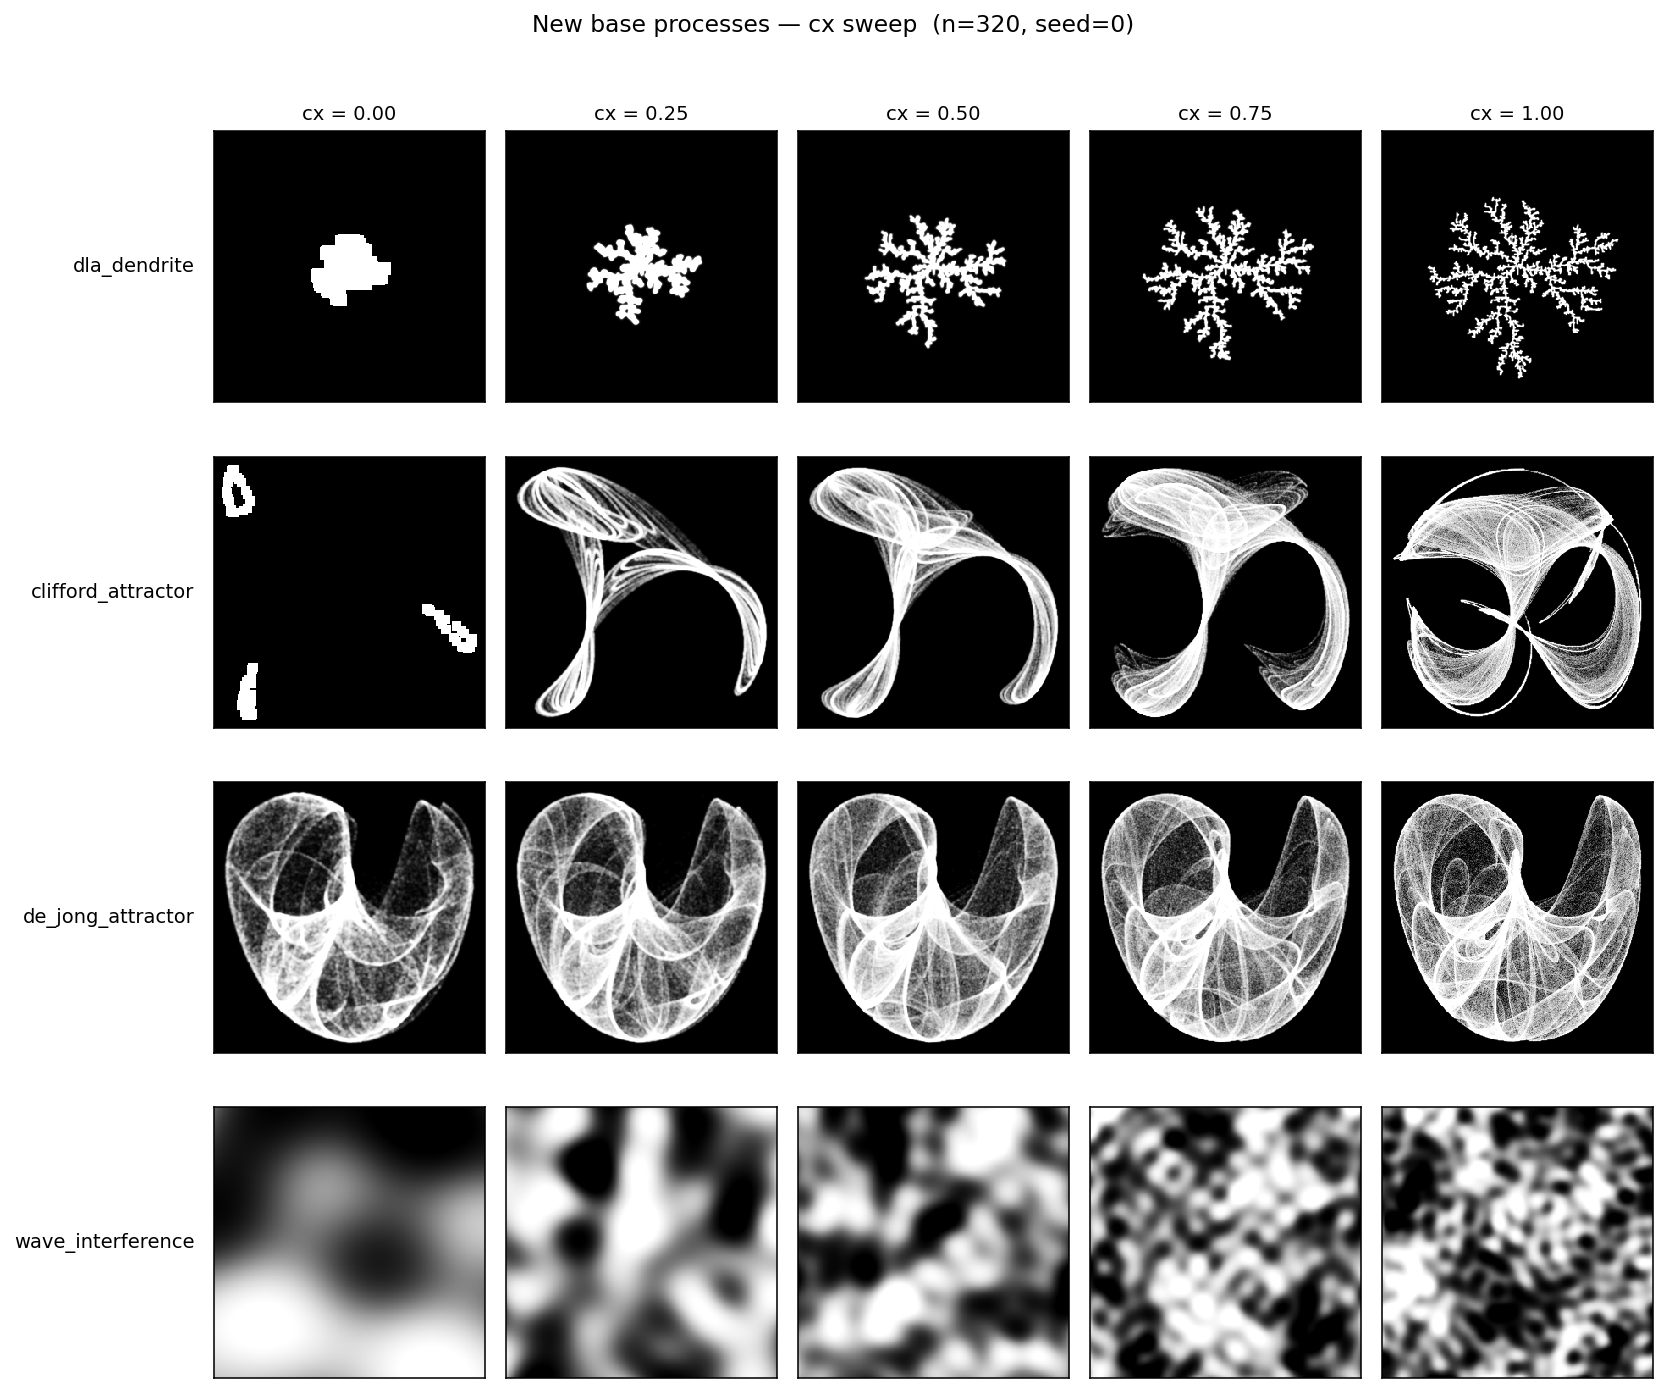
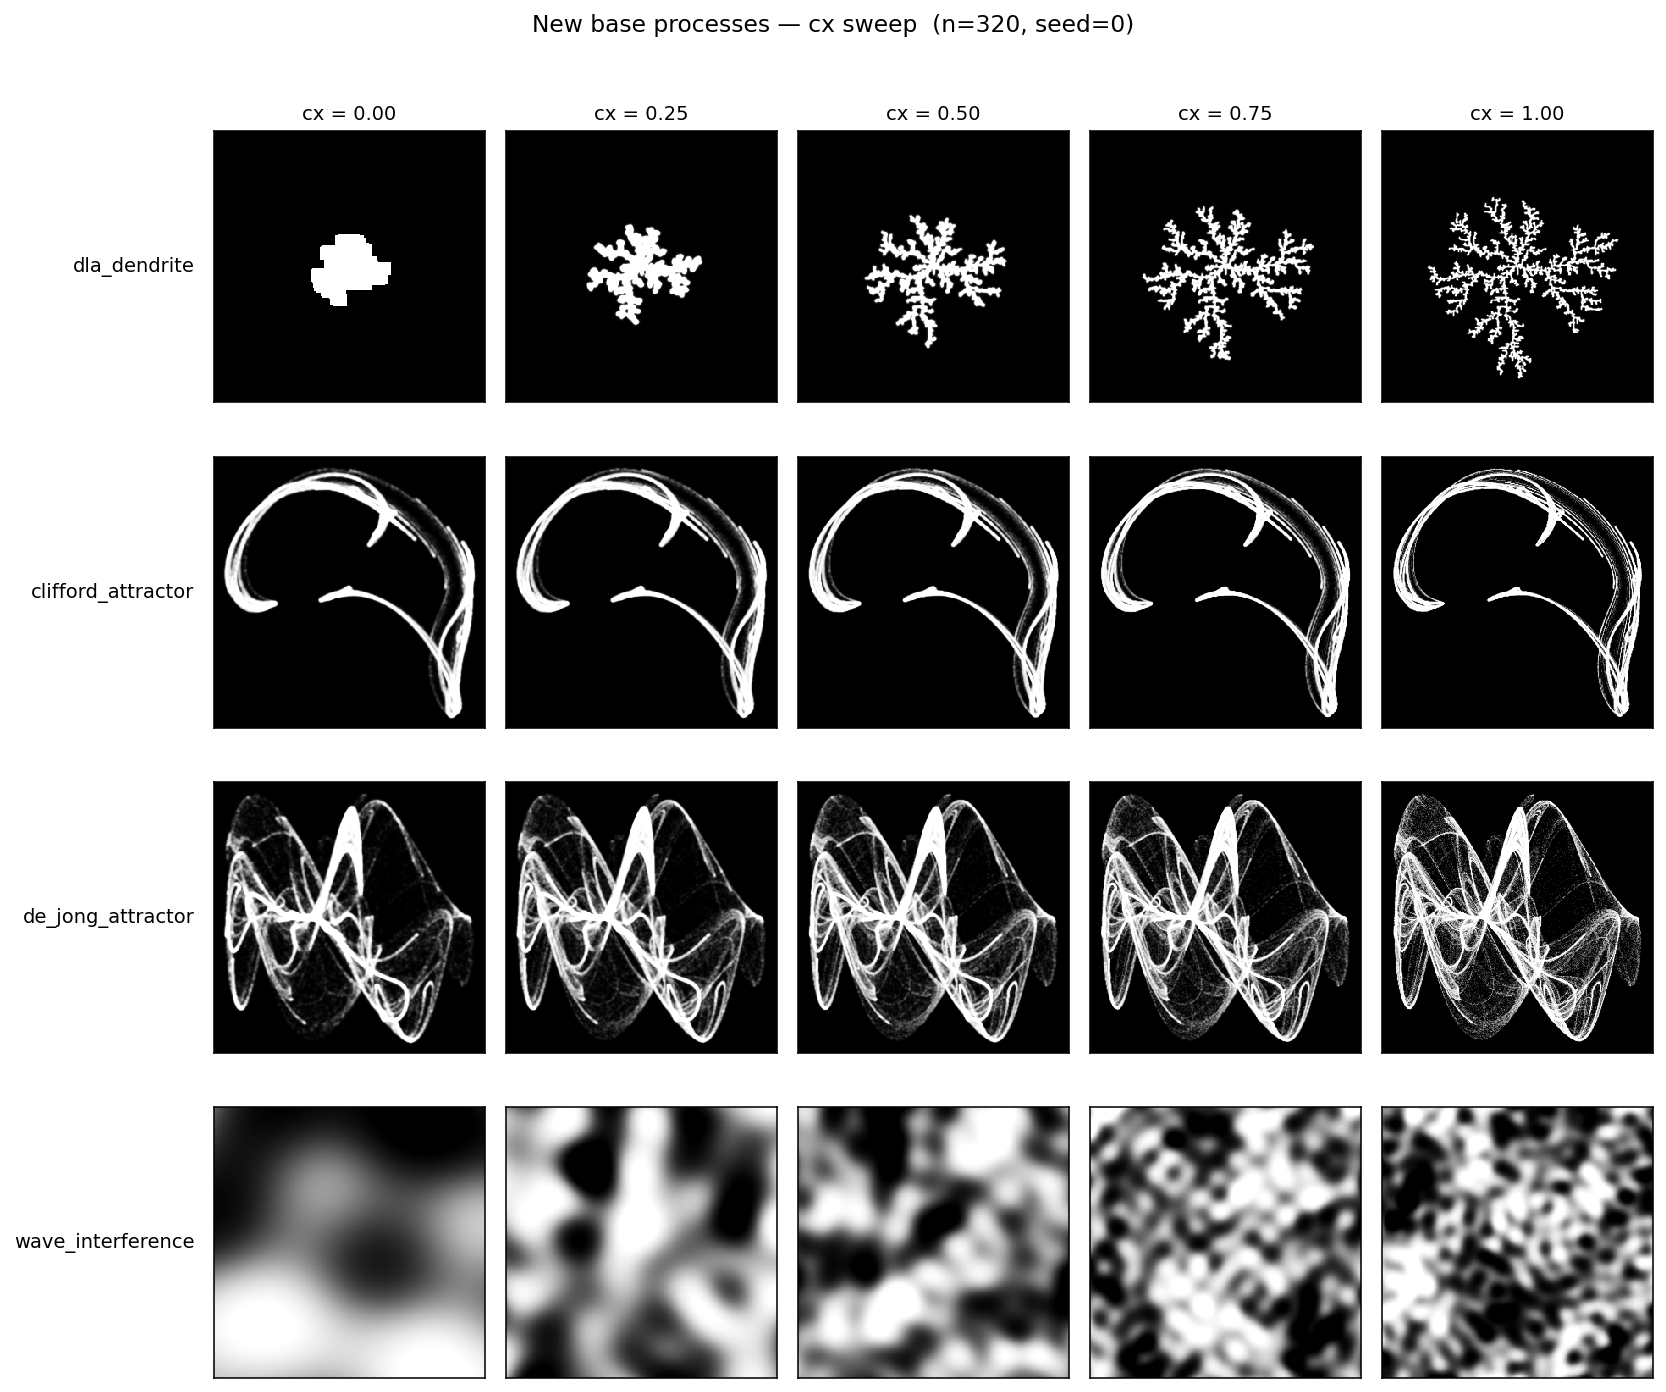
Attractors: wider seed variability + wave_interference crispness knob
Attractors:
  Seeds now sample (a, b, c, d) from a wide parameter cube
  ([-2.2, 2.2]^4 for Clifford, [-2.7, 2.7]^4 for de Jong) instead of
  jittering a single base. A two-stage quality filter (fast 8k-iter probe,
  bbox + histogram-occupancy check) rejects degenerate orbits — point
  attractors, short cycles, or sparse cycles that pass a naive bbox check
  but visit too few cells. Up to 40 retries before falling back; in practice
  most attempts succeed on the first try.
  Result: seeds now give visually distinct strange attractors (different
  fern / wisp / branched / vortical shapes) rather than near-identical
  variations on a fixed parameter neighborhood.

wave_interference:
  New `crispness` parameter in [0, 1]. 0 = original smooth cos-sum;
  1 = near-binary level-curves via tanh saturation (post-sum field
  pushed through tanh(gain * (field - 0.5)) with gain = 1 + 18 * crispness).
  Lets the interference fringes read as crisp lines or moire wave-fronts
  rather than soft gradients.

Figures 30 (cx sweep, refreshed), 31 (seed sweep, dramatically wider
attractor variation), 32 (crispness sweep across cx).

diff --git a/benchmarks/attractors_crispness_refresh.py b/benchmarks/attractors_crispness_refresh.py
@@ -1,0 +1,118 @@
+"""
+Re-render after the post-feedback tweaks:
+  - Attractor seed sampling widened (now spans the (a,b,c,d) parameter
+    geometry, with a quality filter that rejects degenerate orbits).
+  - wave_interference grew a `crispness` knob.
+
+Outputs:
+  benchmarks/figures/30_new_bases_cx_sweep.png        (regenerated)
+  benchmarks/figures/31_new_bases_seed_sweep.png      (regenerated, now
+                                                       with wider attractor
+                                                       seed variability)
+  benchmarks/figures/32_wave_crispness_demo.png       crispness sweep at
+                                                       cx=0.3, 0.6, 0.9
+"""
+from __future__ import annotations
+import sys
+import time
+from pathlib import Path
+import matplotlib
+matplotlib.use("Agg")
+import matplotlib.pyplot as plt
+
+ROOT = Path(__file__).resolve().parents[1]
+sys.path.insert(0, str(ROOT))
+import mfractal as mf
+
+N = 320
+CXS = [0.0, 0.25, 0.5, 0.75, 1.0]
+SEEDS = [0, 1, 2, 3, 4]
+FAMS = ["dla_dendrite", "clifford_attractor", "de_jong_attractor",
+        "wave_interference"]
+
+
+def cx_sweep():
+    fig, axes = plt.subplots(len(FAMS), len(CXS),
+                             figsize=(2.4 * len(CXS), 2.5 * len(FAMS)),
+                             squeeze=False)
+    for ri, fam in enumerate(FAMS):
+        for ci, cx in enumerate(CXS):
+            img = mf.generate(fam, n=N, complexity=cx, seed=0)
+            disp = mf.punch(img)
+            ax = axes[ri][ci]
+            ax.imshow(disp, cmap="gray", vmin=0, vmax=1, interpolation="nearest")
+            ax.set_xticks([]); ax.set_yticks([])
+            if ri == 0:
+                ax.set_title(f"cx = {cx:.2f}", fontsize=10)
+            if ci == 0:
+                ax.set_ylabel(fam, fontsize=10, rotation=0,
+                              ha="right", va="center", labelpad=10)
+    fig.suptitle(f"New base processes — cx sweep  (n={N}, seed=0)",
+                 fontsize=12, y=1.005)
+    fig.tight_layout()
+    out = ROOT / "benchmarks" / "figures" / "30_new_bases_cx_sweep.png"
+    fig.savefig(out, dpi=140, bbox_inches="tight"); plt.close(fig)
+    print(f"Wrote {out.relative_to(ROOT)}")
+
+
+def seed_sweep():
+    fig, axes = plt.subplots(len(FAMS), len(SEEDS),
+                             figsize=(2.4 * len(SEEDS), 2.5 * len(FAMS)),
+                             squeeze=False)
+    for ri, fam in enumerate(FAMS):
+        for ci, s in enumerate(SEEDS):
+            img = mf.generate(fam, n=N, complexity=0.5, seed=s)
+            disp = mf.punch(img)
+            ax = axes[ri][ci]
+            ax.imshow(disp, cmap="gray", vmin=0, vmax=1, interpolation="nearest")
+            ax.set_xticks([]); ax.set_yticks([])
+            if ri == 0:
+                ax.set_title(f"seed = {s}", fontsize=10)
+            if ci == 0:
+                ax.set_ylabel(fam, fontsize=10, rotation=0,
+                              ha="right", va="center", labelpad=10)
+    fig.suptitle("New base processes — seed sweep at cx=0.5  "
+                 "(attractors now span the full param geometry)",
+                 fontsize=12, y=1.005)
+    fig.tight_layout()
+    out = ROOT / "benchmarks" / "figures" / "31_new_bases_seed_sweep.png"
+    fig.savefig(out, dpi=140, bbox_inches="tight"); plt.close(fig)
+    print(f"Wrote {out.relative_to(ROOT)}")
+
+
+def crispness_demo():
+    """Three rows: cx=0.3, 0.6, 0.9; six columns: crispness 0..1."""
+    cxs = [0.3, 0.6, 0.9]
+    crispnesses = [0.0, 0.2, 0.4, 0.6, 0.8, 1.0]
+    fig, axes = plt.subplots(len(cxs), len(crispnesses),
+                             figsize=(2.4 * len(crispnesses), 2.5 * len(cxs)),
+                             squeeze=False)
+    for ri, cx in enumerate(cxs):
+        for ci, cr in enumerate(crispnesses):
+            img = mf.wave_interference(n=N, complexity=cx, seed=0, crispness=cr)
+            disp = mf.punch(img)
+            ax = axes[ri][ci]
+            ax.imshow(disp, cmap="gray", vmin=0, vmax=1, interpolation="nearest")
+            ax.set_xticks([]); ax.set_yticks([])
+            if ri == 0:
+                ax.set_title(f"crispness = {cr:.1f}", fontsize=10)
+            if ci == 0:
+                ax.set_ylabel(f"cx = {cx:.1f}", fontsize=10, rotation=0,
+                              ha="right", va="center", labelpad=10)
+    fig.suptitle("wave_interference — crispness knob "
+                 "(tanh saturation on the level-curves)",
+                 fontsize=12, y=1.005)
+    fig.tight_layout()
+    out = ROOT / "benchmarks" / "figures" / "32_wave_crispness_demo.png"
+    fig.savefig(out, dpi=140, bbox_inches="tight"); plt.close(fig)
+    print(f"Wrote {out.relative_to(ROOT)}")
+
+
+if __name__ == "__main__":
+    t0 = time.time()
+    cx_sweep()
+    print(f"cx_sweep total: {time.time()-t0:.0f}s")
+    t0 = time.time()
+    seed_sweep()
+    print(f"seed_sweep total: {time.time()-t0:.0f}s")
+    crispness_demo()

diff --git a/mfractal/attractors.py b/mfractal/attractors.py
@@ -79,33 +79,66 @@ def _orbit_to_image(xs, ys, n, smooth=0.7):
     return _normalize01(H)
 
 
+def _orbit_quality(xs, ys, min_bbox=0.6, min_occupancy=0.04, probe_bins=96):
+    """Returns True if the orbit is a non-trivial strange attractor:
+    - finite values
+    - bounding box at least min_bbox in each axis
+    - histogram occupancy (fraction of probe bins visited) at least
+      min_occupancy. This catches short cycles that pass the bbox check
+      but only visit a handful of cells.
+    """
+    if not (np.isfinite(xs).all() and np.isfinite(ys).all()):
+        return False
+    bx = float(xs.max() - xs.min())
+    by = float(ys.max() - ys.min())
+    if bx < min_bbox or by < min_bbox:
+        return False
+    H, _, _ = np.histogram2d(ys, xs, bins=probe_bins)
+    occupancy = float((H > 0).mean())
+    return occupancy >= min_occupancy
+
+
+def _sample_attractor(iterate_fn, n_iter, rng, low=-2.5, high=2.5, tries=40):
+    """Sample (a,b,c,d) from a wide range; retry if the orbit isn't a
+    non-trivial strange attractor. Returns (xs, ys, params).
+
+    Each retry uses a *short* probe iteration to cheaply discard degenerate
+    parameter sets; only the accepted set is iterated for the full n_iter.
+    """
+    probe_iters = 8000
+    for _ in range(tries):
+        params = rng.uniform(low, high, size=4)
+        xs, ys = iterate_fn(*params, n_iter=probe_iters)
+        xs = xs[400:]; ys = ys[400:]
+        if _orbit_quality(xs, ys):
+            # accepted — run the full iteration
+            xs, ys = iterate_fn(*params, n_iter=n_iter)
+            return xs[400:], ys[400:], params
+    # fallback: full iteration on the last attempt so we never return nothing
+    xs, ys = iterate_fn(*params, n_iter=n_iter)
+    return xs[400:], ys[400:], params
+
+
 def clifford_attractor(n=384, seed=None, complexity=0.5):
-    """Clifford attractor density. cx routes iteration count + parameter
-    perturbation; seed picks the parameter neighborhood."""
+    """Clifford attractor density. seed picks (a,b,c,d) from the full
+    [-2.5, 2.5]^4 parameter cube (with rejection of degenerate orbits) so
+    different seeds give visually distinct attractors. cx routes iteration
+    count only."""
     cx = float(np.clip(complexity, 0.0, 1.0))
     rng = default_rng(seed)
     n_iter = int(150_000 + 850_000 * cx)
-    # base params known to give rich orbits; perturb mildly with seed and cx
-    base = np.array([-1.4, 1.6, 1.0, 0.7])
-    jitter = 0.35 * (rng.random(4) - 0.5)
-    perturb = 0.15 * cx * rng.standard_normal(4)
-    a, b, c, d = base + jitter + perturb
-    xs, ys = _iterate_clifford(a, b, c, d, n_iter)
-    # discard transient
-    xs = xs[200:]; ys = ys[200:]
+    xs, ys, _ = _sample_attractor(_iterate_clifford, n_iter, rng,
+                                   low=-2.2, high=2.2)
     return _orbit_to_image(xs, ys, n, smooth=max(0.4, 1.2 - 0.8 * cx))
 
 
 def de_jong_attractor(n=384, seed=None, complexity=0.5):
-    """de Jong attractor density. cx routes iteration count + parameter
-    perturbation; seed picks the parameter neighborhood."""
+    """de Jong attractor density. seed picks (a,b,c,d) from a wide
+    parameter range so different seeds give visually distinct attractors.
+    cx routes iteration count only."""
     cx = float(np.clip(complexity, 0.0, 1.0))
     rng = default_rng(seed)
     n_iter = int(150_000 + 850_000 * cx)
-    base = np.array([1.4, -2.3, 2.4, -2.1])
-    jitter = 0.30 * (rng.random(4) - 0.5)
-    perturb = 0.15 * cx * rng.standard_normal(4)
-    a, b, c, d = base + jitter + perturb
-    xs, ys = _iterate_de_jong(a, b, c, d, n_iter)
-    xs = xs[200:]; ys = ys[200:]
+    xs, ys, _ = _sample_attractor(_iterate_de_jong, n_iter, rng,
+                                   low=-2.7, high=2.7)
     return _orbit_to_image(xs, ys, n, smooth=max(0.4, 1.2 - 0.8 * cx))

diff --git a/mfractal/interference.py b/mfractal/interference.py
@@ -28,15 +28,24 @@ __all__ = ["wave_interference", "INTERFERENCE_FAMILIES"]
 INTERFERENCE_FAMILIES = ("wave_interference",)
 
 
-def wave_interference(n=384, seed=None, complexity=0.5):
+def wave_interference(n=384, seed=None, complexity=0.5, crispness=0.0):
     """Sum of random plane waves: field(x,y) = sum_i cos(k_i (cos theta_i x +
     sin theta_i y) + phi_i). Normalized to [0, 1].
 
-    complexity in [0,1] routes:
-      - wave count   N = 8 ... 64
-      - frequency    k drawn uniformly in [k_lo, k_hi] with k_hi growing in cx
+    Parameters
+    ----------
+    complexity : float in [0, 1]
+        routes wave count (N = 8..64) and frequency range
+        ([2..12] -> [8..92]).
+    crispness : float in [0, 1]
+        post-process contrast push toward binary level-curves. 0 = smooth
+        sums-of-cosines (default; original behavior); 1 = near-binary
+        wave-front nodes (tanh saturation at high gain). Useful when you
+        want the interference fringes to read as crisp lines rather than
+        soft gradients.
     """
     cx = float(np.clip(complexity, 0.0, 1.0))
+    cr = float(np.clip(crispness, 0.0, 1.0))
     rng = default_rng(seed)
     N = int(8 + 56 * cx)
     k_lo = 2.0 + 6.0 * cx
@@ -44,11 +53,15 @@ def wave_interference(n=384, seed=None, complexity=0.5):
     thetas = rng.uniform(0, 2 * np.pi, size=N)
     ks = rng.uniform(k_lo, k_hi, size=N)
     phis = rng.uniform(0, 2 * np.pi, size=N)
-    # mild amplitude variation so high-frequency waves don't dominate
     amps = 1.0 / np.sqrt(1.0 + (ks / k_lo) ** 1.5)
     yy, xx = np.mgrid[0:n, 0:n].astype(np.float64)
     xx /= n; yy /= n
     field = np.zeros((n, n), dtype=np.float64)
     for k, th, ph, a in zip(ks, thetas, phis, amps):
         field += a * np.cos(k * (np.cos(th) * xx + np.sin(th) * yy) + ph)
-    return _normalize01(field)
+    field = _normalize01(field)
+    if cr > 0:
+        gain = 1.0 + 18.0 * cr
+        field = 0.5 + 0.5 * np.tanh(gain * (field - 0.5))
+        field = _normalize01(field)
+    return field
